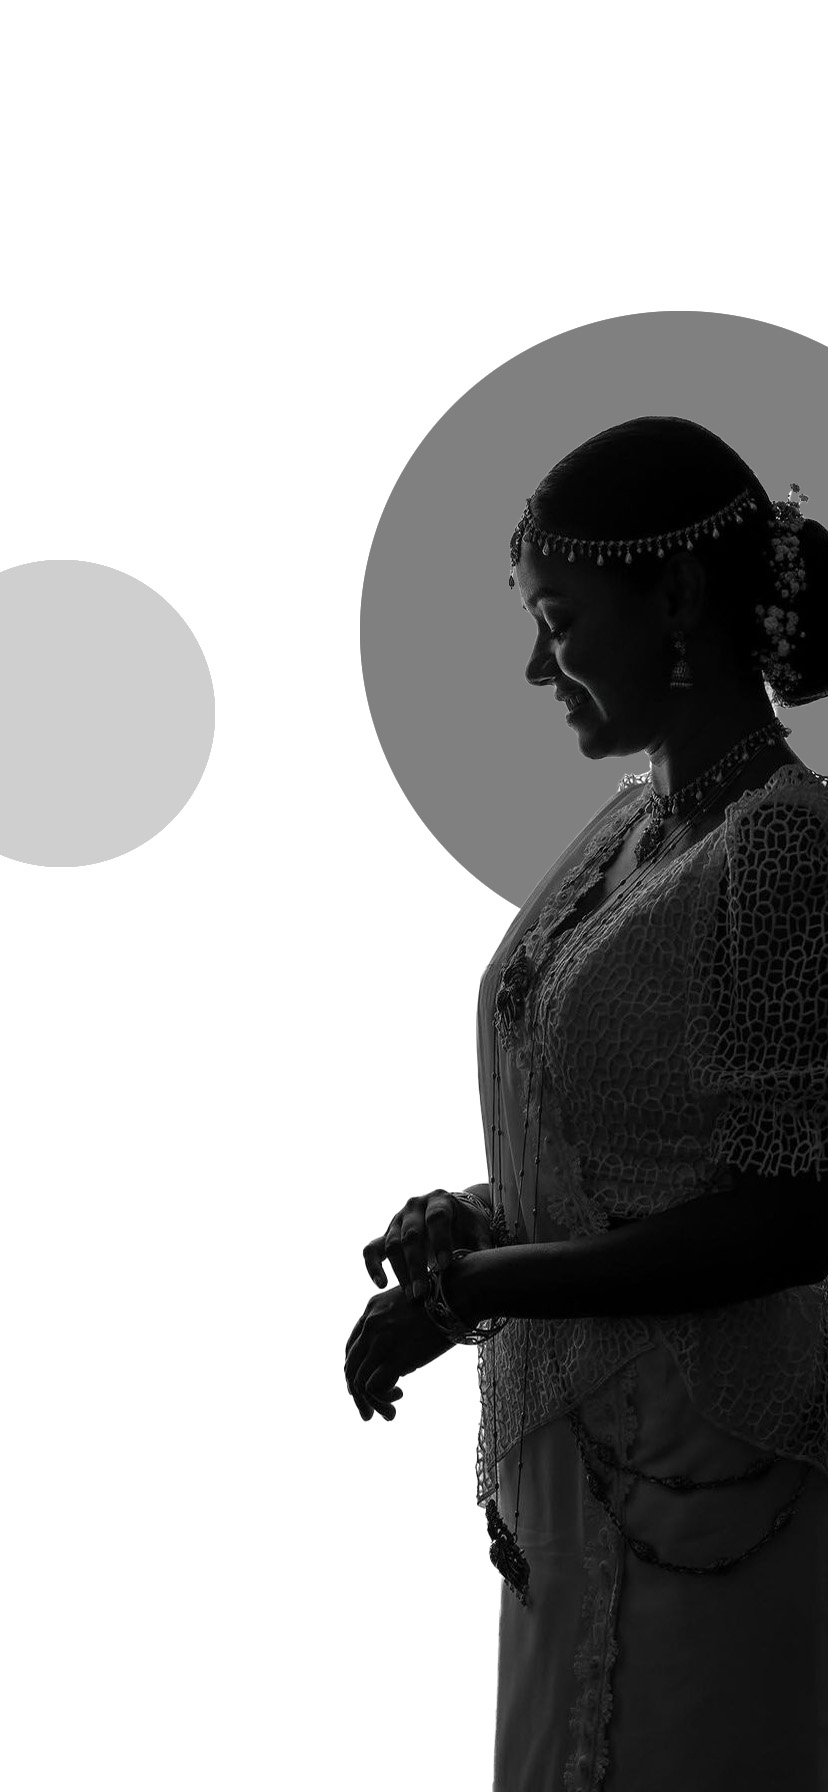
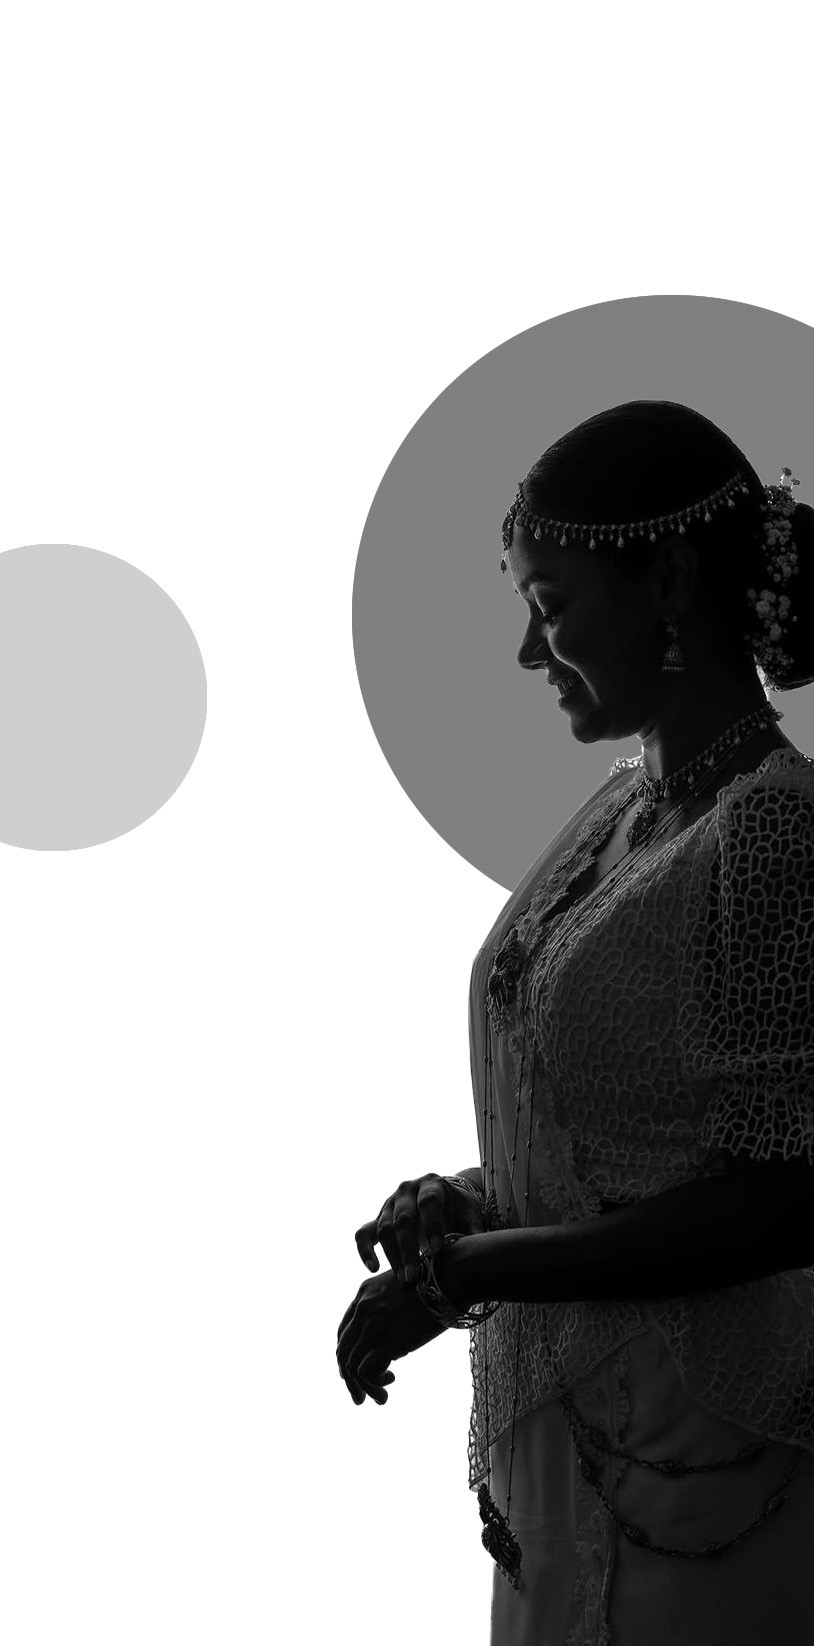
isssue fix

diff --git a/src/App.css b/src/App.css
@@ -151,8 +151,8 @@
   position: absolute;
   top: 0;
   left: 0;
-  width: 100%;
-  height: 100%;
+  width: 100vw;
+  height: 100vh;
   background-image: url('/src/assets/hero_1.jpg');
   background-size: cover;
   background-position: center;
@@ -212,39 +212,39 @@
   }
 
   .hero-section::before {
-  content: "";
-  position: absolute;
-  top: 0;
-  left: 0;
-  width: 100%;
-  height: 100%;
-  background-image: url('/src/assets/hero_2.jpg');
-  background-size: cover;
-  background-position: center;
-  background-repeat: no-repeat;
-  z-index: 0;
+    content: "";
+    position: absolute;
+    top: 0;
+    left: 0;
+    width: 100%;
+    height: 100%;
+    background-image: url('/src/assets/hero_2.jpg');
+    background-size: cover;
+    background-position: center;
+    background-repeat: no-repeat;
+    z-index: 0;
 
-  /* Animation */
-  animation-name: header-zoom;
-  animation-duration: 10s;
-  animation-delay: 1s;
-  animation-iteration-count: infinite;
-  animation-direction: alternate;
-  transition: 1s;
-}
+    /* Animation */
+    animation-name: header-zoom;
+    animation-duration: 10s;
+    animation-delay: 1s;
+    animation-iteration-count: infinite;
+    animation-direction: alternate;
+    transition: 1s;
+  }
 
-/* Animate scaling */
-@keyframes header-zoom {
-  0%, 100% {
-    transform: scale(1);
+  /* Animate scaling */
+  @keyframes header-zoom {
+    0%, 100% {
+      transform: scale(1);
+    }
+    25%, 75% {
+      transform: scale(1.1);
+    }
+    50% {
+      transform: scale(1.05);
+    }
   }
-  25%, 75% {
-    transform: scale(1.1);
-  }
-  50% {
-    transform: scale(1.05);
-  }
-}
 }
 
 

diff --git a/src/components/Hero.jsx b/src/components/Hero.jsx
@@ -6,7 +6,7 @@ import 'aos/dist/aos.css';
 function Hero() {
   return (
     <>
-      <section className="hero-section bg-light py-5 mt-5 min-vh-100 d-flex align-items-center">
+      <section className="hero-section bg-light py-0 min-vh-100 d-flex align-items-center">
 
         {/* <div className='col-md-12 position-absolute d-flex justify-content-center align-items-center' >
           <div className="position-absolute rounded-circle bg-secondary bottom-0 mt-5 mx-auto overflow-hidden hero_background_image" ></div>
